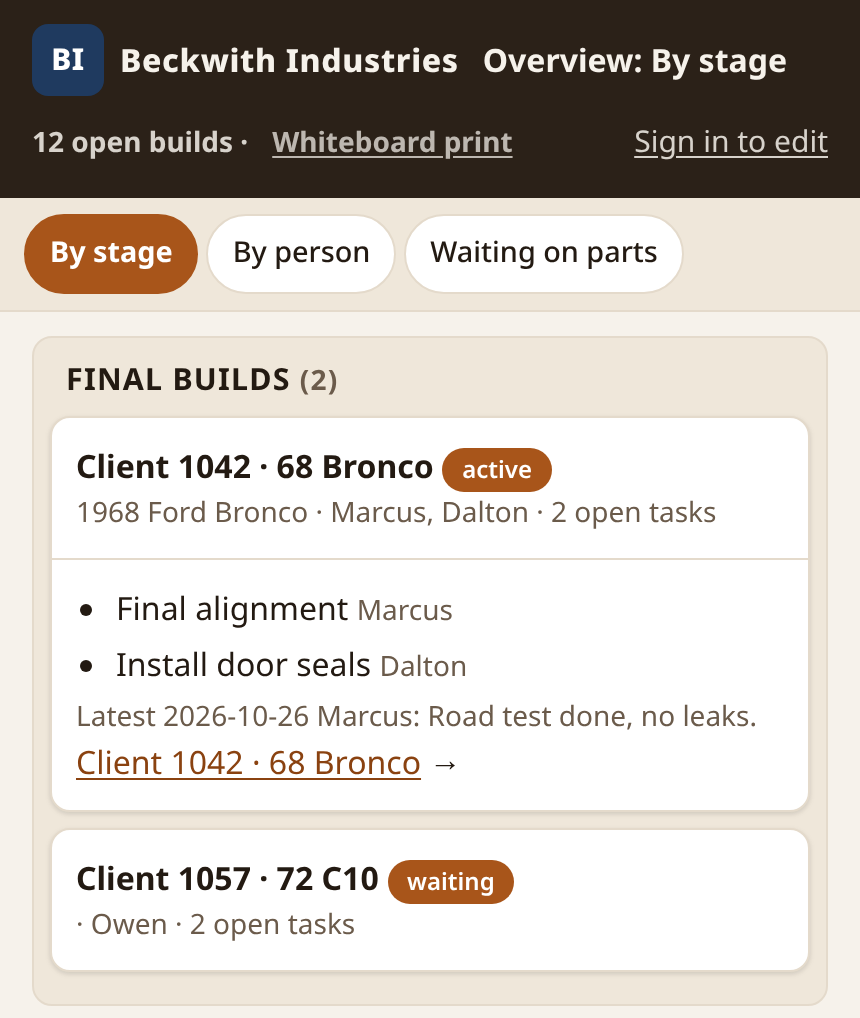
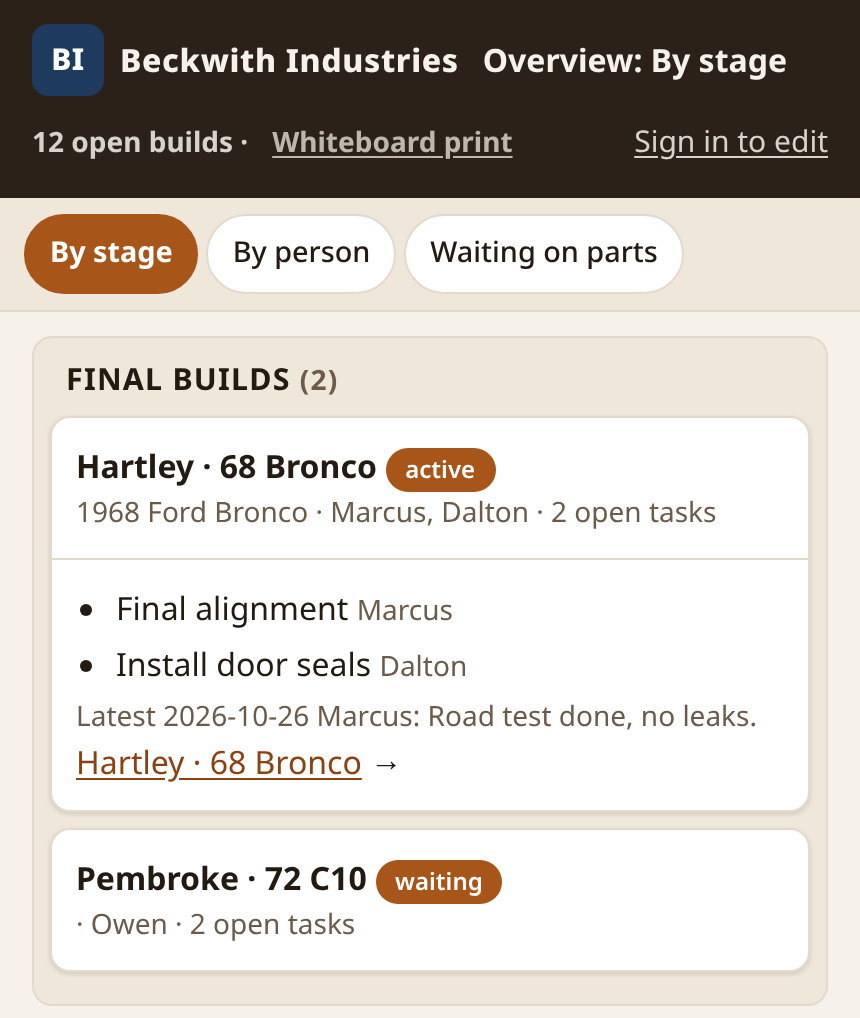
Anonymize garage client names, rebuild puppy guide excerpt, name Jev for browser agent

Changed region(s): [[0.0907, 0.4263, 0.6651, 0.4872], [0.0907, 0.8222, 0.6047, 0.8831], [0.0907, 0.7308, 0.4837, 0.7613]]

diff --git a/index.html b/index.html
@@ -319,7 +319,7 @@ footer { border-top: 1px solid var(--line); margin-top: 48px; padding-top: 18px;
     <ul>
       <li>Reads each employer's careers site broadly, then filters by fixed titles and rules. Covers Greenhouse, Lever, Ashby, Workday, Oracle, Phenom, Avature, and SmartRecruiters job feeds.</li>
       <li>Splits searches that pass Workday's 2,000-result cap, so large employers are read in full.</li>
-      <li>Sends only sites that block scripts to a browser agent, with spaced, backed-off requests.</li>
+      <li>Sends only sites that block scripts to a browser agent running typesafe.ai's Jev, with spaced, backed-off requests.</li>
       <li>Checks mail at 6:30 AM and 4 PM CT each weekday through a read-only mail agent. It reads full threads in Inbox, Sent, Trash, and Spam, so recruiter replies update each role's status.</li>
       <li>Shows every dropped role with its reason instead of hiding it. Shows posted pay, and adds a yearly figure for hourly pay.</li>
     </ul>
@@ -376,9 +376,9 @@ footer { border-top: 1px solid var(--line); margin-top: 48px; padding-top: 18px;
     <p class="meta">Each model has a specific job, and some jobs have a fallback.</p>
     <div class="model"><p><strong>Coding:</strong> xAI's Grok Build coding agent, run through my own sandboxed launcher, and the Pi coding agent with pi-toolbag. Pi's failover chain, in order: GLM-5.3 on Baseten, Grok through SuperGrok, Grok through the xAI API, Anthropic's Fable, Claude Opus, then Claude Sonnet.</p></div>
     <div class="model"><p><strong>Planning and review (personal work):</strong> Grok.</p></div>
-    <div class="model"><p><strong>Browser control and data-ingest decisions (personal work):</strong> typesafe.ai's Jev.</p></div>
+    <div class="model"><p><strong>Browser agent and data-ingest decisions (personal work):</strong> typesafe.ai's Jev.</p></div>
     <div class="model"><p><strong>Garage assistant receipt reading (Cloudflare Workers AI):</strong> Llama 4 Scout 17B, Mistral Small 3.1 24B, and Llama 3.2 11B Vision read each receipt in parallel, and each field is decided by majority vote.</p></div>
-    <div class="model"><p><strong>Photo or document?</strong> Llama 3.2 11B Vision plus ResNet-50 decide whether an upload is a document to read in full or a photo to describe.</p></div>
+    <div class="model"><p><strong>Telling photos from documents (garage assistant):</strong> Llama 3.2 11B Vision plus ResNet-50 decide whether an upload is a document to read in full or a photo to describe.</p></div>
     <div class="model"><p><strong>Voice notes:</strong> Whisper large-v3-turbo transcribes, with Deepgram Nova-3 as the fallback.</p></div>
     <div class="model"><p><strong>At work:</strong> Astra/Terra, plus Fable, Opus, and Sonnet. I'm evaluating OpenAI's Decisions model for alerts, Kubernetes events, and log lines.</p></div>
   </section>
